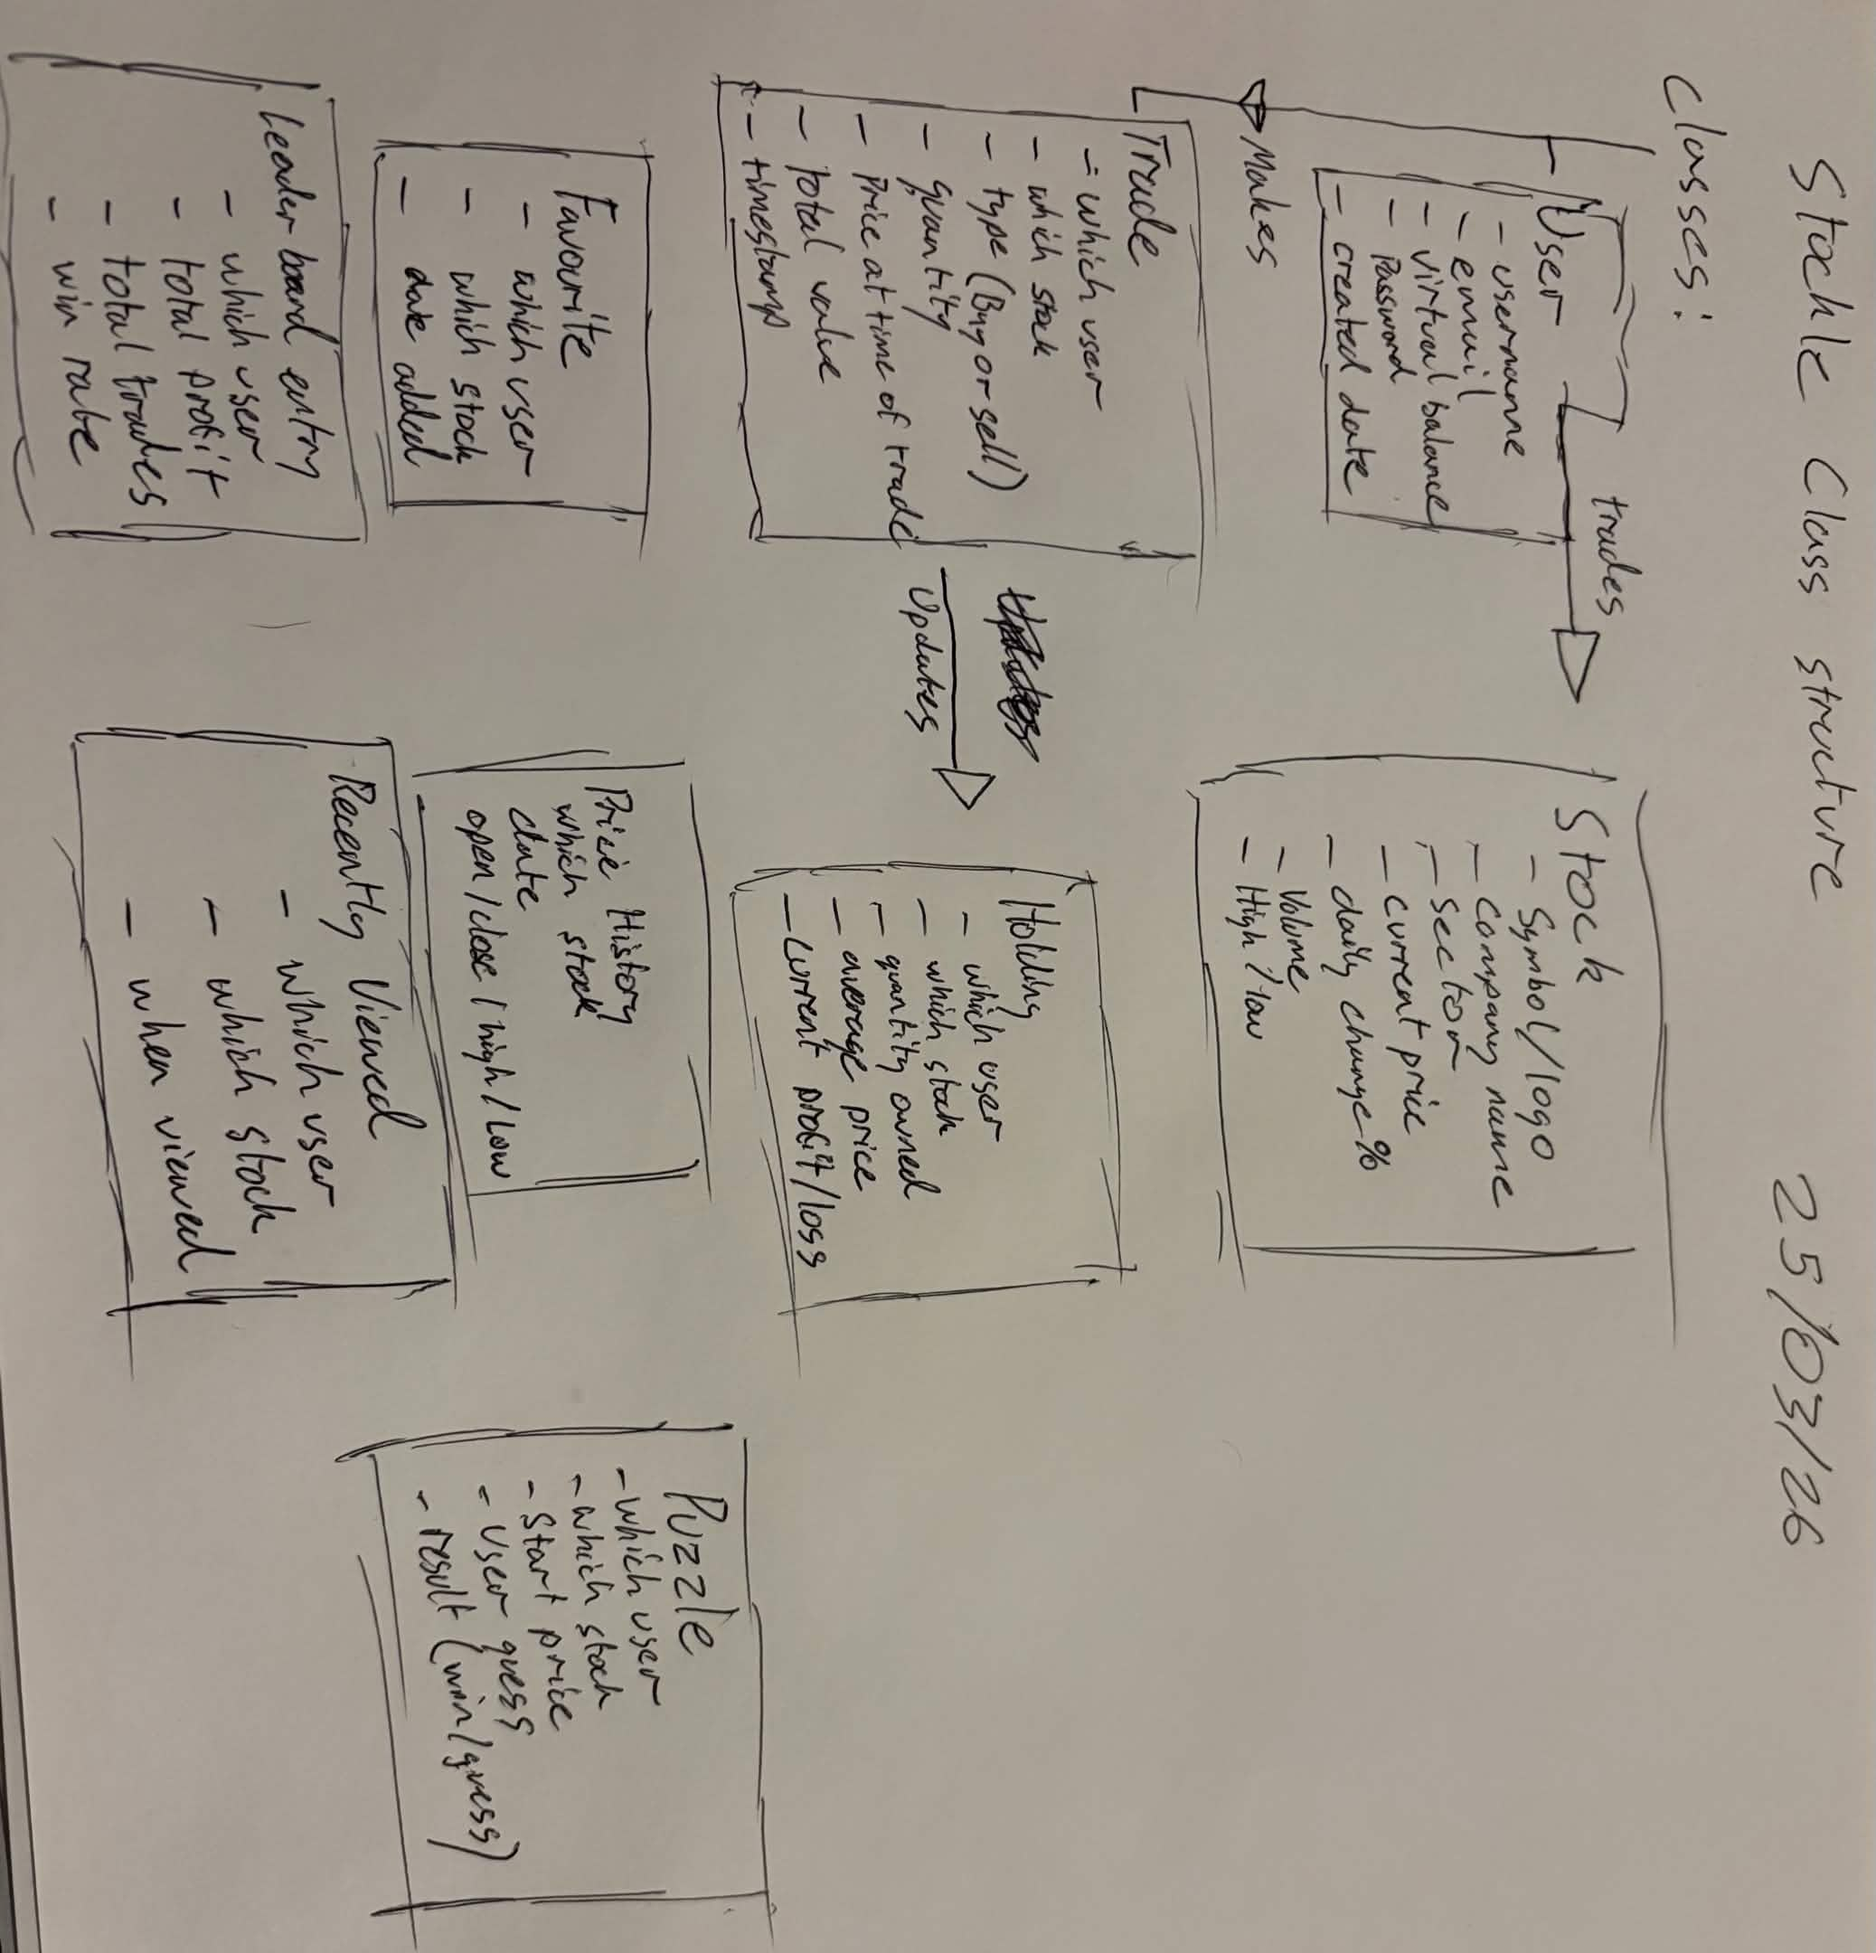
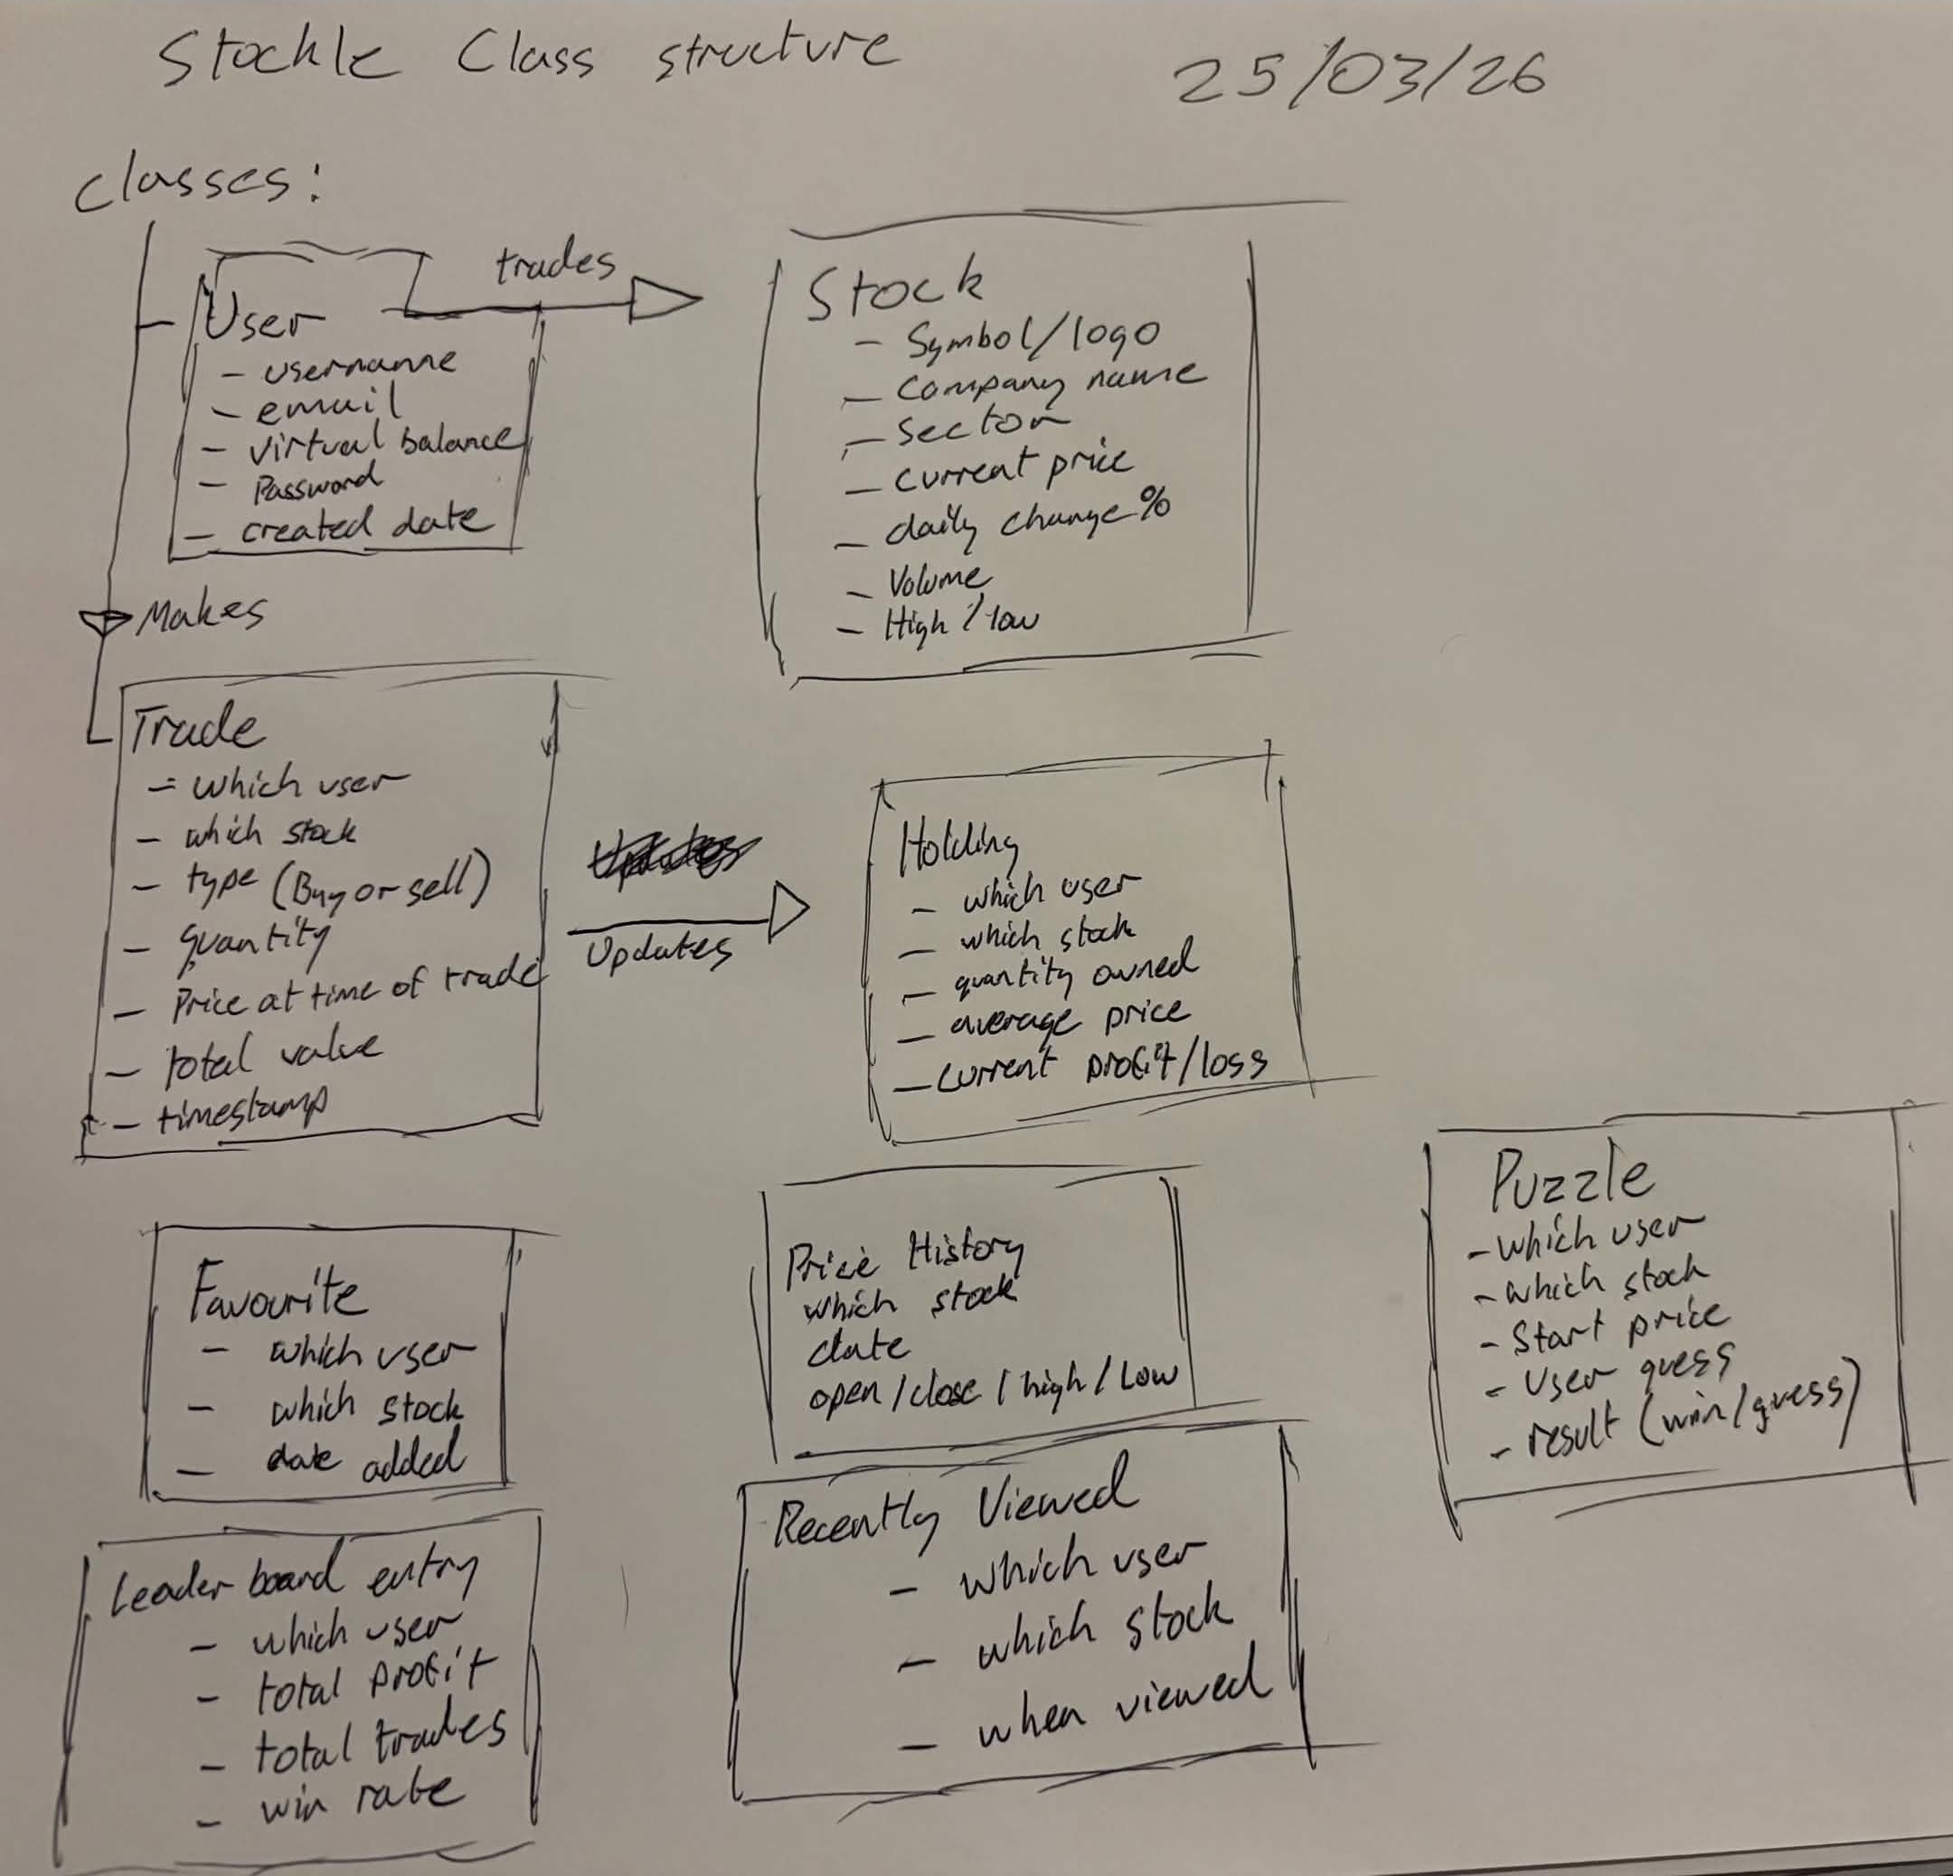
Foundational Class Fields 1st draft

diff --git a/src/main/java/com/stockle/stockle/Trade.java b/src/main/java/com/stockle/stockle/Trade.java
@@ -1,4 +1,13 @@
 package com.stockle.stockle;
 
 public class Trade {
+
+    // Fields
+    private Double userNumber;
+    private String stock;
+    private Boolean type; // Buy or Sell
+    private String priceAtTrade; // Will change from string
+    private Long totalValue;
+    private String timeStamp; // Time of the trade
+
 }

diff --git a/src/main/java/com/stockle/stockle/User.java b/src/main/java/com/stockle/stockle/User.java
@@ -1,4 +1,13 @@
 package com.stockle.stockle;
 
 public class User {
+
+    //Fields
+    private Double userNumber;
+    private String userName;
+    private String email;
+    private Long virtualBalance;
+    private String password;
+    private String createdDate; // leaving this as a String for now
+
 }

diff --git a/src/main/java/com/stockle/stockle/Holding.java b/src/main/java/com/stockle/stockle/Holding.java
@@ -1,4 +1,12 @@
 package com.stockle.stockle;
 
 public class Holding {
+
+    //Fields
+
+    private Long userNumber;
+    private String userName;
+    private int quantity; // how much stock
+    private Long averagePrice; // Average price of your purchased stock
+    private Float currentProfitLoss;
 }

diff --git a/src/main/java/com/stockle/stockle/Stock.java b/src/main/java/com/stockle/stockle/Stock.java
@@ -1,4 +1,13 @@
 package com.stockle.stockle;
 
 public class Stock {
+
+    // Fields
+    // Logo
+    private Long stockNumber;
+    private String companyName;
+    private String sector;
+    private Long currentPrice;
+    private Float dailyChange; // Percentage
+    private Long volume;
 }
